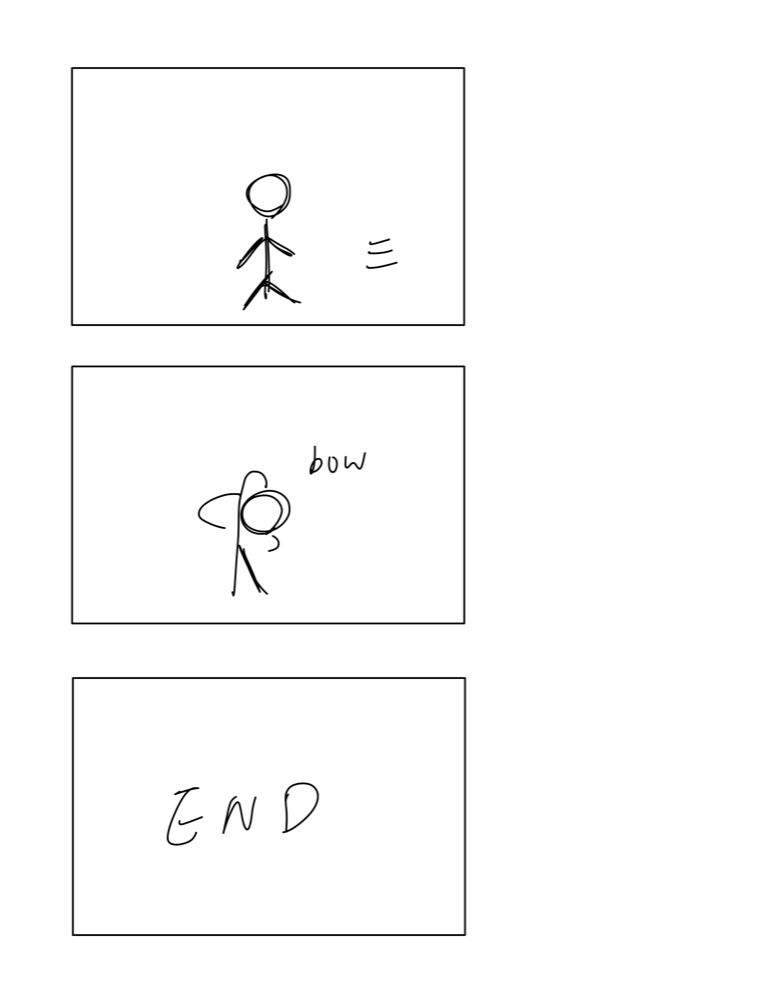
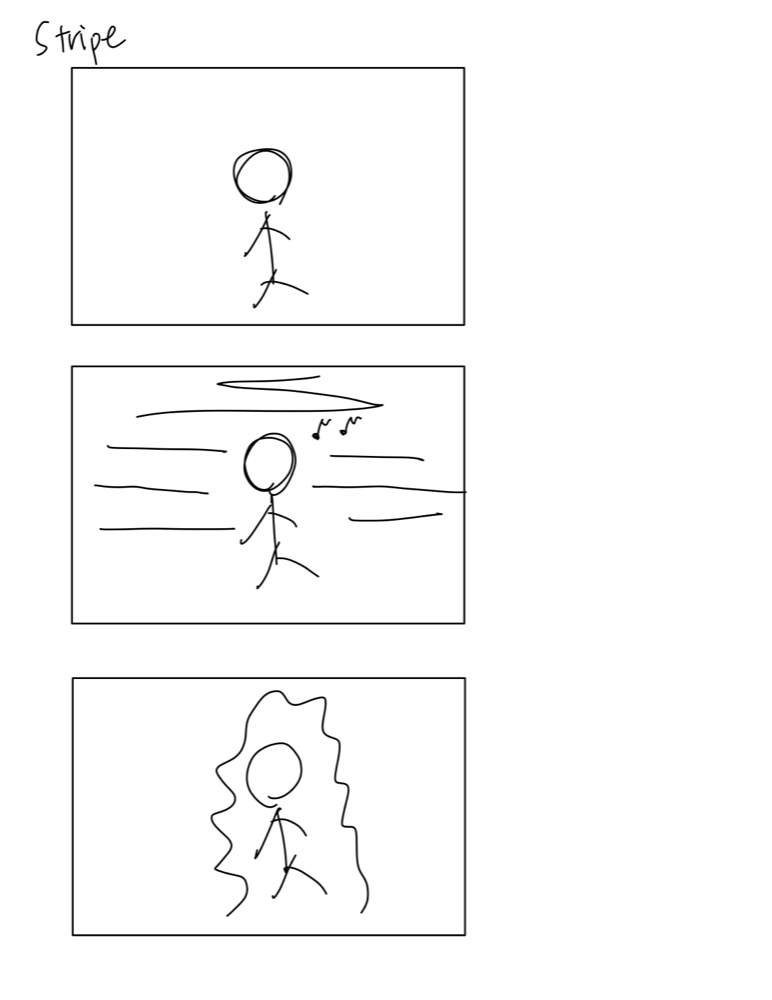
Revise Lab 1 write-up: shorten text, add Stripe storyboard version

diff --git a/Lab 1/README.md b/Lab 1/README.md
@@ -8,139 +8,124 @@
 
 ## Part 0. Know Your Master
 
-*Messa di Voce* (2003) is a live audiovisual performance made by Golan Levin and Zachary Lieberman. It was performed by two voice artists, Jaap Blonk and Joan La Barbara. It premiered at Ars Electronica in Austria on 7 September 2003, and was performed again at the ICA in London in November of the same year. Later the artists also made an installation version for the public, which has travelled to more than 12 countries. The title comes from a bel canto singing term. It means holding one note and making it slowly louder and then slowly softer.
+*Messa di Voce* (2003), by Golan Levin and Zachary Lieberman. Performed by the voice artists Jaap Blonk and Joan La Barbara. First shown at Ars Electronica on 7 September 2003.
 
-The only input is the human voice. It is not about the words. It is about the sound itself: pitch, volume, breath, screams and long vowels all count. The system uses a microphone to analyse the pitch and the spectral density of the voice. At the same time, it uses computer vision to track the position of the speaker's head. Because of this, the graphics look like they are coming out of the performer's mouth. The official description says the software turns "every vocal nuance" into "correspondingly complex, subtly differentiated and highly expressive graphics". The important part is that different sounds grow into **different shapes**, not the same shape getting bigger or smaller. The whole performance has 12 sections, and each one has its own visual language. Some of the names are Fluid, Ripple, Bounce, Bodystamp and Pitchpaint. The idea behind this comes from the psychologist Wolfgang Köhler and his 1927 experiments on sound symbolism, which showed that certain sounds make people from different cultures think of similar shapes.
+**Input / output:** The input is every vocal nuance, not the words. The output is "correspondingly complex, subtly differentiated and highly expressive graphics". A microphone reads the voice and a camera tracks the head, so the graphics look like they come out of the mouth. The show has 12 sections, for example Fluid, Ripple, Bounce and Stripes.
 
-There are two performers, the screen, and the audience. Blonk and La Barbara are both artists who use the human voice in a non-verbal way. Between them it is an improvised conversation: one person makes a sound and the screen answers, then the other person replies and the screen becomes something else. For the audience, they are not listening to the sound. They are **watching** it.
+**Who is present:** Two performers, the screen and the audience. The performers talk to each other with sounds and the screen answers. The audience watches the sound instead of listening to it.
 
-The work is famous because it turns sound into something you can see, in real time, and the match is close enough to make people believe it. The official description calls it "Utterly wordless, yet profoundly verbal". Its strengths are that you do not need to learn anything to use it, because everyone can make sounds; the cause and effect is very clear, because the sound and the image happen at the same time, so the audience understands the rule in one second; and the images differ in **shape**, not only in size. Its weaknesses are that it depends a lot on the skill of the performer — Blonk and La Barbara can make sounds that normal people cannot, so with an ordinary person the images would be boring. It also needs a dark room, a big projection and clean sound recording, so it does not work in every space. And the link between a sound and a shape was decided by the designers. If you change that link, it becomes a different work.
+**Famous for, strengths and weaknesses:** It is famous because you can see sound. Everyone can make a sound, and the image comes at the same time, so the rule is clear. But it needs a very skilled performer, a dark room and a big screen.
 
-The core interaction is simple: a person stands in front of a big screen and makes a sound, and graphics grow out of their mouth. Different sounds make different shapes. People recognise the work by that image — a dark background, the silhouette of a person, and moving graphics pouring out of their mouth.
+**Core interaction:** A person makes a sound in front of a big screen, and shapes grow out of their mouth.
 
-**Sources:** [Messa di Voce (Performance), flong.com](https://www.flong.com/archive/projects/messa/index.html) ｜ [Messa di Voce (Installation), flong.com](https://www.flong.com/archive/projects/messa_inst/index.html) ｜ [Messa di Voce, ZKM](https://zkm.de/en/artwork/messa-di-voce-0)
+**Sources:** [flong.com](https://www.flong.com/archive/projects/messa/index.html) ｜ [ZKM](https://zkm.de/en/artwork/messa-di-voce-0)
 
 ## Part A. Plan
 
-**Setting:** A performance space inside an art museum, today. The room is dark, and the whole front wall is a glowing screen. The audience is already sitting down, and the show is about to start.
+**Setting:** A dark room in an art museum, just before a show.
 
-**Players:** Two performers, and the audience in the room. The first performer opens the show and calls out bubbles with their voice. The second one comes in later and makes ripples with their voice. The audience never makes a sound, but the work does not work without them — sound becoming visible is something you do *for* someone who is watching.
+**Players:** Two performers and the audience. The first makes bubbles, the second makes ripples. The audience only watches.
 
-**Activity:** The first performer walks in and greets the audience. Then they stand in front of the screen and make a sound, and bubbles come out beside them and float up, slowly filling the top of the screen. At this moment the second performer comes in. They make a different sound, and ripples grow beside them, each wave bigger than the last, until they push the bubbles and the first performer out of the picture. The second performer walks to the middle and bows. The show ends.
+**Activity:** The first performer makes a sound and bubbles float up. The second one comes in, and their ripples push the bubbles and the first performer away. Then the second one bows and it ends.
 
-**Goals:** The first performer wants to set the rule and show the audience that their voice becomes an image. They also want the stage for themselves. The second performer wants to prove that the stage does not belong to only one kind of sound, so they cover it with a completely different kind of image. The audience wants to watch a show, and we want them to leave knowing that sound has a shape.
+**Goals:** The first performer wants the stage. The second one wants to show it is not only for one sound. We want the audience to see that sound has a shape.
 
 **Our three storyboards:**
 
-### Storyboard 1 — Bubble
+We drew three versions, one for each kind of graphic. Bounce, Ripple and Stripes are all real section names in the original, so each version is a different way to show the same idea.
+
+### Version 1 — Bubble
 ![Storyboard 1: Bubble](storyboard_1.png)
 
-### Storyboard 2 — Ripple
+The performer makes a sound and round bubbles float up and fill the top of the screen.
+
+### Version 2 — Ripple
 ![Storyboard 2: Ripple](storyboard_2.png)
 
-### Storyboard 3 — Bow / END
-![Storyboard 3: Bow and END](storyboard_3.png)
+A second person comes in. Their sound makes wide ripples that push the bubbles and the first performer away.
 
-We did not choose bubbles and ripples by accident. **Bounce and Ripple are real section names from the original 12 sections**, and they are also the two images of this work that people have seen the most. The two shapes are also a good contrast: bubbles are round, light, and float up; ripples are curved, strong, and spread sideways. One floats, one pushes.
+### Version 3 — Stripe
+![Storyboard 3: Stripe](storyboard_3.png)
+
+The performer sings and long horizontal lines appear across the screen. In the last frame the lines become an irregular shape that wraps around their body, so the person and the graphic become one thing.
+
+**In the end we combined version 1 and version 2.**
 
 **Feedback:**
 
+*Messa di Voce* is not very well known, so the other group could not guess it. But after we told them, they could see it in the storyboards.
 
 ## Part B. Act out the Interaction
 
-**Things that looked better on paper than in real life:**
+**Better on paper than in real life:**
 
-The biggest gap was the light itself. On the storyboard, the bubbles and ripples were just lines we drew. We could make them any size and put them anywhere. But when we tried to build it, we found that we were not drawing — we were **making images out of light**, and light has its own limits. The size and the brightness of the light source decide whether the shape can be seen clearly or not. The storyboard told us nothing about this. (The full test is written in Part C.)
+The light. On paper we can draw any size and put it anywhere. In real life the light source decides if the shape is clear or not, and we did not think about that when we drew the storyboards. (Tests in Part C.)
 
-**New ideas that came up once we were on our feet:**
+**New ideas after acting it out:**
 
-At first we thought this work was about *what the shapes look like*. After making it, we found that it is about **how the shapes appear**. A paper bubble sitting still on the cloth is nothing. But when it grows frame by frame together with a sound and floats up, it becomes *Messa di Voce*. It is about time, not shape.
+We thought this work was about what the shapes look like. It is really about how they appear. A paper bubble sitting on the cloth is nothing. It only works when it grows together with the sound.
 
-The empty screen was also much more important than we thought. Frame 2 of our storyboard, the one with nothing in it, was only meant to be a transition. But when we made it, we found that it is the base of the whole piece. The audience first has to see that the screen is empty when there is no sound. Only then does the cause and effect work when the bubbles appear. If the screen is full of shapes from the beginning, the audience will never know that the sound called them out.
+The empty screen also matters. The audience needs to see an empty screen first, so they know the sound made the bubbles.
 
-**Key moments where things could go in a different direction:**
+**Key moments that could go a different way:**
 
-The moment the second person enters is the biggest fork in the whole piece. Before that, the rule is simple: one person, one sound, one kind of shape. But once the second person comes in, we have to decide what the second sound should look like — and there are many possible answers.
-
-In the end we chose ripples, but that is definitely not the only option. For "another person's voice", the other directions we thought about were:
-
-- **Lines** — straight or bent lines that stretch out as the sound continues. This would show the *length* and the *path* of the sound instead of how it spreads.
-- **Irregular shapes around the person** — the shapes would not grow from somewhere on the screen, but right on the performer's body, like a changing outline wrapping around them. This is actually the closest to the original. *Messa di Voce* has a whole section where the visuals grow directly on the performer's head and body, so the person and the image become one thing.
-
-Each choice makes the work read differently. Ripples read like "sound travelling through space". Lines read like "sound being recorded". Shapes on the body read like "sound is a part of this person".
+The moment the second person comes in. We had to decide what the second sound looks like. We chose ripples, but it could also be lines, or shapes around the person's body, which is what we drew in version 3. Ripples feel like sound moving through space. Lines feel like sound being recorded. Shapes on the body feel like the sound belongs to that person.
 
 ## Part C. Prototype the Light
 
-Our method uses the fact that **light travels in straight lines**. We cut shapes out of paper and put them on a piece of translucent paper in front. Behind it we put a light source. The places blocked by the paper become dark shapes, and the places where the light passes through become the bright background. The idea is simple, but in practice everything depends on the **brightness** and the **size** of the light source.
+We put cut paper on a sheet of translucent paper and lit it from behind. The paper blocks the light, so it becomes a dark shape.
 
-**The size of the light source mattered more than the brightness.** We did not want one small point of light making a bright spot. We wanted one large, even, glowing background, because the visuals in *Messa di Voce* fill the whole screen. That feeling of a whole interactive wall is what makes it recognisable. So we tested several options:
+The size of the light matters more than the brightness. We needed one big even light, not a small spot. We tried:
 
-- **A phone** (the original Tinkerbelle method): too small. The lit area was only a small spot, the edges of the paper shadows became blurry, and it could not give the feeling of a whole wall at all.
-- **A desk lamp**: bright enough, but it is a point light. The shadows had strong gradients and spread out in odd directions. The area near the lamp was too bright and the area far from it was completely dark.
-- **A floor lamp**: a slightly bigger area, but the light was still not even. The colour was also too yellow, which made the whole image warm. That is very different from the cold, digital feeling of the original.
+- **Phone:** too small. The lit area was a small spot and the edges were blurry.
+- **Desk lamp:** bright enough, but it is a point light. Too bright near the lamp and too dark far from it.
+- **Floor lamp:** a bigger area, but still uneven, and the colour was too yellow.
 
-**In the end we used a computer monitor as the light source, with the brightness turned up to the maximum.** A monitor is a flat light source, which is exactly what we needed. It gives one even sheet of light instead of a point. Because of this, the edges of the shadows became clean and the paper shapes could really be read.
+In the end we used a computer monitor at full brightness. A monitor is flat, so the light is even and the edges of the shapes are clean.
 
-We also tested different colours. Warm colours (yellow and orange) looked too much like candlelight or stage lighting, which pulled the work towards theatre, but *Messa di Voce* is digital and cold. Blue and cyan felt more technological, but the contrast dropped and the line between the dark paper shapes and the background became unclear. **In the end we chose white, because it gave the strongest contrast and the clearest shapes.** White light made the outlines of the paper jump out, and it was also the closest to the neutral background of the original projection.
+We also tried colours. Yellow and orange looked like a stage light, but this work is cold and digital. Blue and cyan lost too much contrast. White was the clearest, so we used white.
 
-The lab instructions allow "manually or remotely controlled light switch, dimmer, or lamp" instead of a phone when there are technical problems. We only made this decision after we had actually tested the phone.
+The lab says we can use a lamp instead of a phone if there are technical problems. We only decided this after we tested the phone.
 
 ## Part D. Wizard the Device
 
-Our picture has two layers, which we shot separately and then put together:
+We shot two layers separately:
 
-- **The visual layer (the light):** the bubbles and the ripples are cut paper on the translucent screen, lit from behind by the computer monitor. The two of us stayed behind the screen and **moved each paper shape by hand**, taking one photo at a time to make a stop-motion animation.
-- **The performer layer:** the two performers were filmed separately and added in later in editing.
+- **The light:** cut paper on the screen, lit by the monitor behind. We moved the paper by hand and took one photo at a time to make a stop-motion animation.
+- **The performers:** filmed separately and added in editing.
 
-**How we shared the work:** we did not split the jobs. We moved the paper and shot the frames together — one person moved a shape, the other checked the picture and took the photo, and we swapped whenever we wanted. We also built the screen together. For the performance parts, we filmed each other: one person acted in front of the camera while the other held it.
+We did not split the work. One person moved the paper and the other took the photo, and we swapped whenever we wanted. For the performance parts we filmed each other.
 
-Photos of the setup are in Part E.
+Setup photos are in Part E.
 
 ## Part E. Costume the Device
 
-**The empty screen (no paper shapes):**
+**Empty screen:**
 
-![Setup: translucent paper over the monitor, showing a white screen](setup_blank.jpg)
+![Setup: translucent paper over the monitor](setup_blank.jpg)
 
-**With the paper bubbles added:**
+**With the paper bubbles:**
 
-![Setup: paper bubbles on the translucent screen](setup_bubbles.jpg)
+![Setup: paper bubbles on the screen](setup_bubbles.jpg)
 
-Our setup is simple. An external monitor shows a full white image at maximum brightness. In front of it we taped a layer of translucent paper to spread the light, and the cut paper shapes go on top of that. The light passes through the paper and becomes an even white background, and the parts blocked by the cut paper become dark shapes.
+Our setup is simple. A monitor shows a white image at full brightness, we taped translucent paper on top, and the cut paper goes on that.
 
-For the look of the device, we chose the two most famous visuals of this work: **the bubbles and the ripples**. These are the two images of *Messa di Voce* that people have seen the most (they also match the Bounce and Ripple sections of the original), so anyone who has seen the work should recognise it immediately. We did not try to recreate the whole visual language of the original. We chose the two most recognisable ones, and we made them contrast with each other.
+We chose the bubbles and the ripples because they are the most famous images of this work. We did not try to copy all 12 sections.
 
-The cut paper itself also gave us limits. Because the image is made by blocking light, the shapes have to be **clear, large and simple**. Any thin line becomes blurry after the light passes through the paper. This actually forced us to simplify the bubbles and the ripples down to their most basic form, and the result is easier to read than the more complicated version we first wanted to draw.
-
-The thing we cared about most in the environment was that **you must not see the light source**. The audience should only see a glowing wall, not a computer monitor. Once you see the edge of the screen, the illusion of "a wall that answers your voice" is broken. You can see this problem in the photos above: the macOS menu bar and the Dock still show through at the top and the bottom of the paper. So when we filmed, we kept the framing inside the clean white area in the middle, and we also made sure the light covered the whole surface instead of only the centre.
+Cut paper only works with big simple shapes. Thin lines get blurry after the light passes through the paper, so we kept the shapes very simple.
 
 ## Part F. Record
 
 ▶ **[video_sketch.mp4](video_sketch.mp4)** — click the link to play it on GitHub.
 
-The video is about 30 seconds long. The visuals were made with stop-motion animation, and the performers were filmed separately and added in editing. The content follows the three storyboards above: the first performer opens the show and calls out bubbles, the second one comes in and pushes the bubbles away with ripples, and the show ends with a bow.
+**Collaborators:**
 
-**Collaborators and influences:**
+This lab was made by Monica Wei and Regina. We did the storyboards, the paper cutting, the setup and the shooting together, and we filmed each other for the performance parts.
 
-This lab was made together by Monica Wei and Regina. We did the storyboards, the paper cutting, the screen setup and the stop-motion shooting together, and we filmed each other for the performance parts.
-
-Background information about the original work came from Golan Levin's official website [flong.com](https://www.flong.com/archive/projects/messa/index.html) and the [ZKM page for the work](https://zkm.de/en/artwork/messa-di-voce-0).
-
-**AI Usage:**
-
-All of the design work in this lab was done by our team before any AI was used. We chose how to stage the piece, drew the three storyboards, cut the paper, tested the light sources, built the screen, and shot and edited the video ourselves. No AI was used in our ideation.
-
-I used Claude (Anthropic) on 30 August 2026 for two things:
-
-1. **Research support** — finding and checking facts about the original *Messa di Voce* (the premiere dates, the performers, the names of the sections, and the Köhler reference), from the sources listed in Part 0.
-2. **Writing support** — organising my notes into paragraphs, improving the wording, and putting this write-up into clear English.
-
-All ideas, design decisions and making in this lab are our own.
+Information about the original work came from [flong.com](https://www.flong.com/archive/projects/messa/index.html) and [ZKM](https://zkm.de/en/artwork/messa-di-voce-0).
 
 ---
 
 ## Part 2 — ReMastering the light
 
 *Week two.*
-
-
